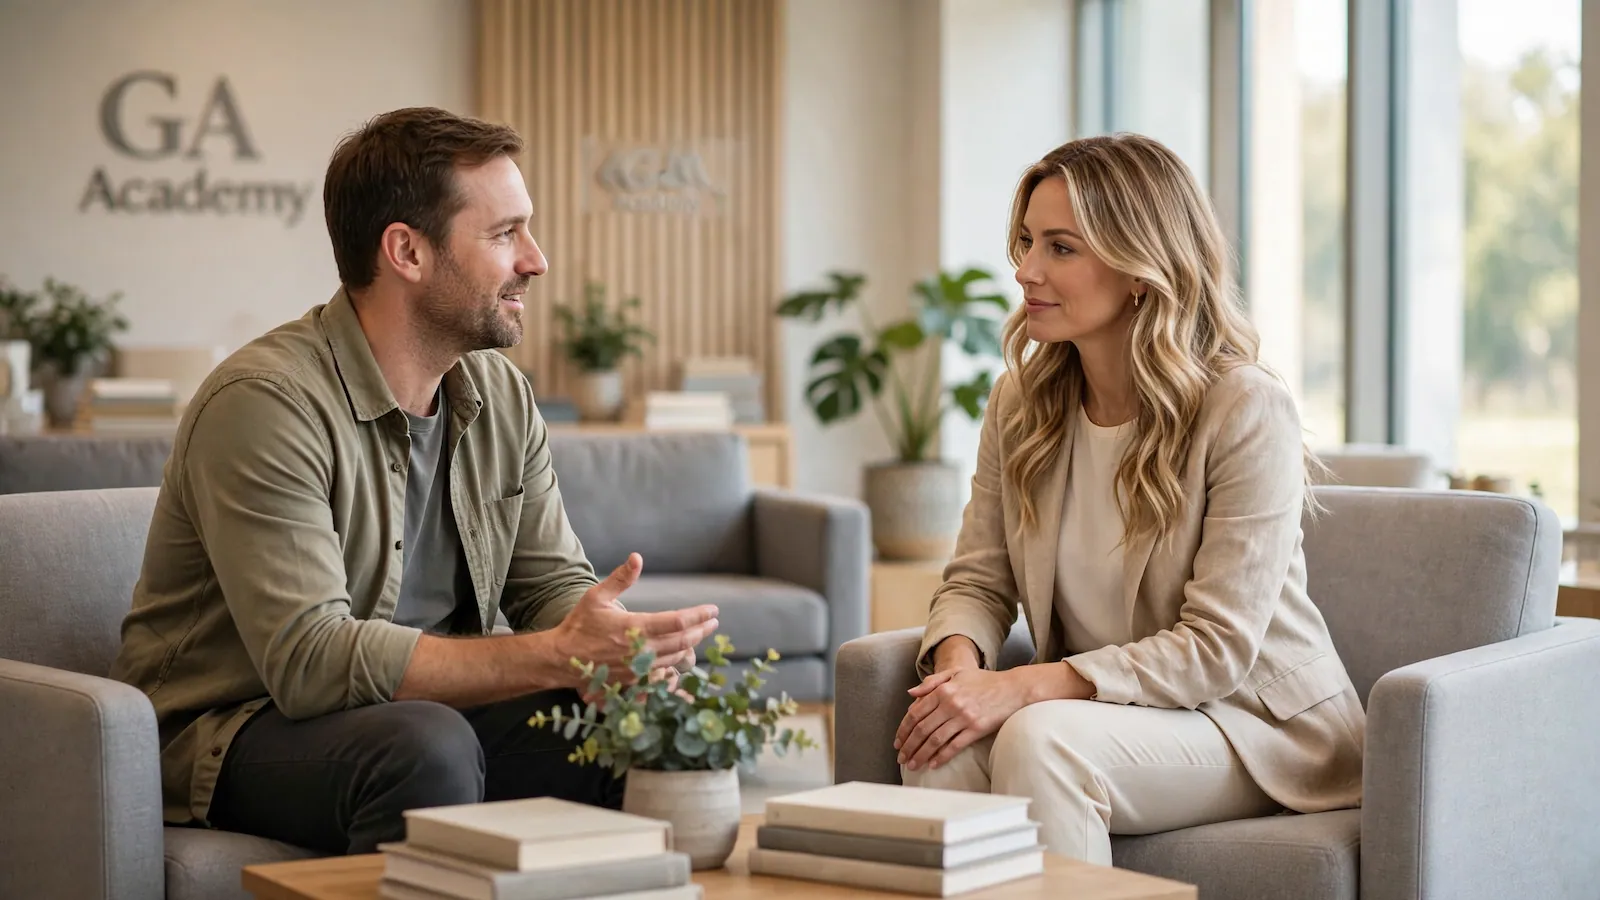
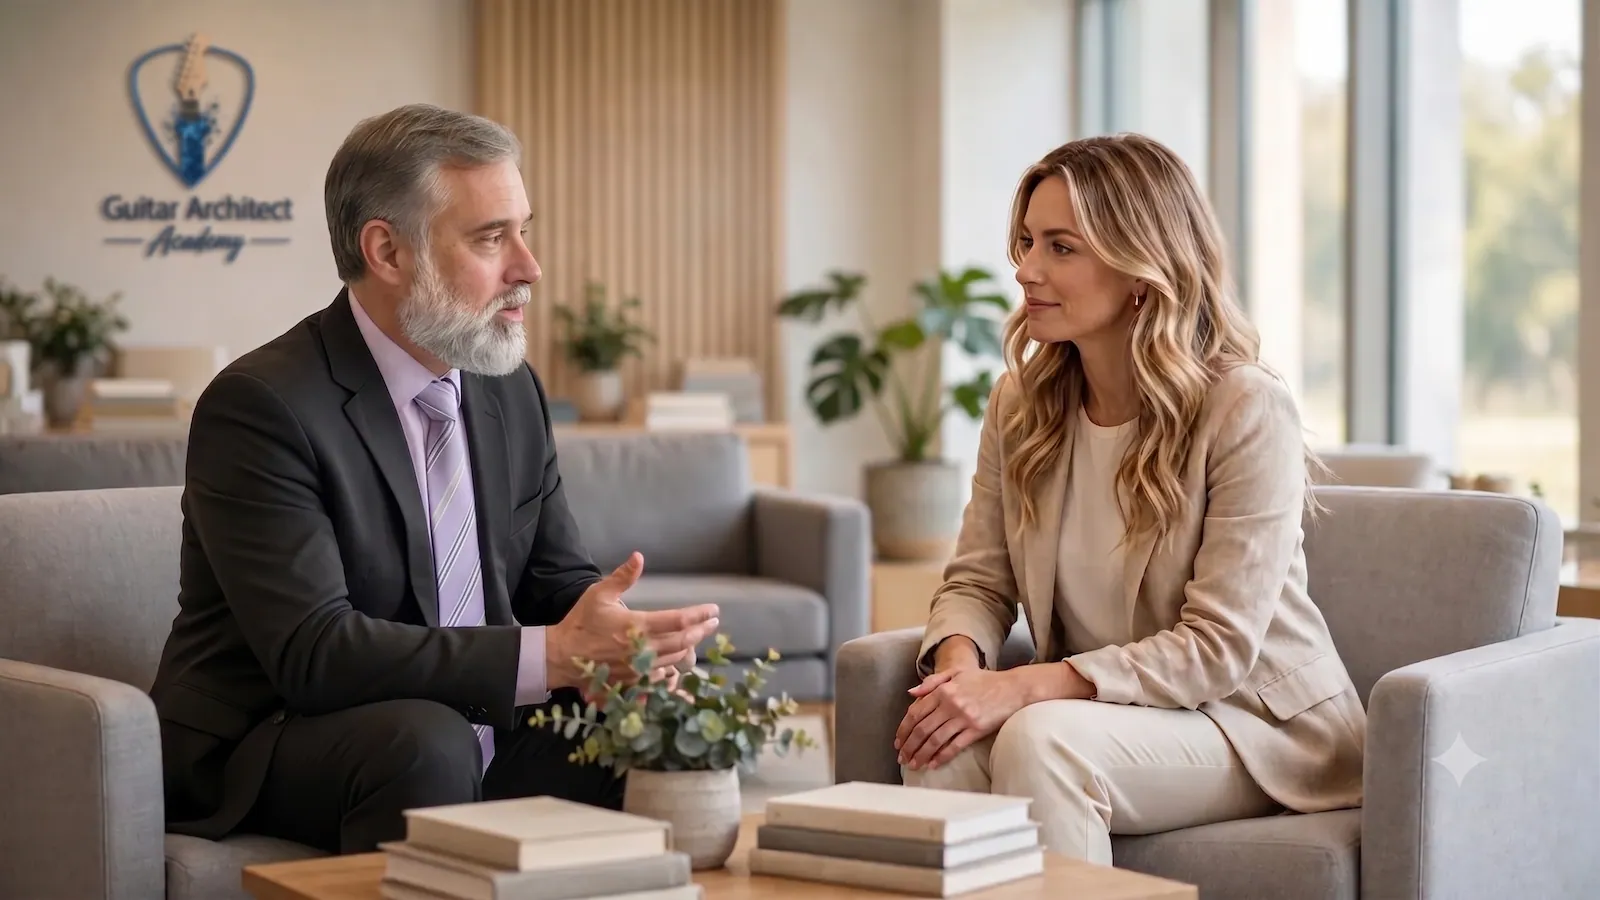
feat: refine architect profile presentation

diff --git a/components/InstructorProfilePage.tsx b/components/InstructorProfilePage.tsx
@@ -109,7 +109,8 @@ const InstructorProfilePage: React.FC<InstructorProfilePageProps> = ({ instructo
         previousProfile: 'Perfil anterior',
         nextProfile: 'Próximo perfil',
         beyondGATitle: 'Além do GA',
-        beyondGAIntro: 'Um pouco da pessoa por trás do Mestre Arquiteto.',
+        beyondGAIntro: 'Biografia e curiosidades pessoais',
+        quoteTitle: 'Em suas palavras',
         fullName: 'Nome completo',
         age: 'Idade',
         birthplace: 'Local de nascimento',
@@ -145,7 +146,8 @@ const InstructorProfilePage: React.FC<InstructorProfilePageProps> = ({ instructo
         previousProfile: 'Previous profile',
         nextProfile: 'Next profile',
         beyondGATitle: 'Beyond GA',
-        beyondGAIntro: 'A glimpse of the person behind the Master Architect.',
+        beyondGAIntro: 'Biography and personal insights',
+        quoteTitle: 'In their own words',
         fullName: 'Full name',
         age: 'Age',
         birthplace: 'Place of birth',
@@ -171,7 +173,6 @@ const InstructorProfilePage: React.FC<InstructorProfilePageProps> = ({ instructo
 
   if (isExperienceDirector) {
     t.personalityTitle = lang === 'pt' ? 'Personalidade, experiência e comunicação' : 'Personality, experience and communication';
-    t.beyondGAIntro = lang === 'pt' ? 'Um pouco mais sobre Diana Helena Moreau Fontenelle.' : 'A little more about Diana Helena Moreau Fontenelle.';
     t.noticeTitle = lang === 'pt' ? 'Diretora de Experiência e Jornada' : 'Director of Experience & Journey';
     t.noticeBody = lang === 'pt'
       ? 'Diana Helena Moreau Fontenelle acolhe, orienta e conecta as pessoas aos diferentes caminhos e possibilidades do Guitar Architect.'
@@ -211,6 +212,7 @@ const InstructorProfilePage: React.FC<InstructorProfilePageProps> = ({ instructo
   const previousInstructor = instructors[(instructorIndex - 1 + instructors.length) % instructors.length];
   const nextInstructor = instructors[(instructorIndex + 1) % instructors.length];
   const beyondGA = getInstructorBeyondGAById(instructor.id);
+  const profileName = beyondGA?.fullName[lang] ?? instructor.name;
   const beyondGAItems = beyondGA
     ? [
         { key: 'fullName', label: t.fullName, value: beyondGA.fullName[lang], wide: false },
@@ -295,7 +297,7 @@ const InstructorProfilePage: React.FC<InstructorProfilePageProps> = ({ instructo
 
           <div className={`overflow-hidden rounded-[40px] border ${cardClass}`}>
             <div className="p-8 pb-6 md:p-12 md:pb-8">
-              <h1 className="text-3xl md:text-5xl font-black italic uppercase tracking-tighter">{instructor.name}</h1>
+              <h1 className="break-words text-3xl md:text-5xl font-black italic uppercase tracking-tighter">{profileName}</h1>
               <p className="mt-1 text-sm md:text-base font-bold uppercase tracking-widest text-blue-500">{instructor.title[lang]}</p>
 
               <div className="mt-4 flex flex-wrap gap-2">
@@ -324,12 +326,12 @@ const InstructorProfilePage: React.FC<InstructorProfilePageProps> = ({ instructo
                   playsInline
                   preload="metadata"
                 >
-                  <img src={heroImage} alt={instructor.name} className="h-full w-full object-cover object-center" />
+                  <img src={heroImage} alt={profileName} className="h-full w-full object-cover object-center" />
                 </video>
               ) : (
                 <img
                   src={heroImage}
-                  alt={instructor.name}
+                  alt={profileName}
                   className="absolute inset-0 h-full w-full object-cover object-center"
                   style={{ transform: `translate(${x}px, ${y}px) scale(${scale})` }}
                 />
@@ -428,29 +430,14 @@ const InstructorProfilePage: React.FC<InstructorProfilePageProps> = ({ instructo
                 </section>
               )}
 
-              {beyondGAItems.length > 0 && (
-                <section className="mt-10" aria-labelledby="beyond-ga-title">
-                  <h2 id="beyond-ga-title" className="text-sm font-black uppercase tracking-tight">{t.beyondGATitle}</h2>
-                  <p className={`mt-1 text-xs ${isLight ? 'text-zinc-500' : 'text-zinc-400'}`}>{t.beyondGAIntro}</p>
-                  <dl className={`mt-5 grid gap-x-8 sm:grid-cols-2 ${isLight ? 'divide-zinc-200' : 'divide-zinc-800'}`}>
-                    {beyondGAItems.map(item => (
-                      <div
-                        key={item.key}
-                        className={`min-w-0 border-b py-4 ${item.wide ? 'sm:col-span-2' : ''} ${isLight ? 'border-zinc-200' : 'border-zinc-800'}`}
-                      >
-                        <dt className="text-[10px] font-black uppercase tracking-widest text-blue-500">{item.label}</dt>
-                        <dd className={`mt-1 break-words text-xs md:text-sm leading-relaxed ${isLight ? 'text-zinc-700' : 'text-zinc-300'}`}>
-                          {item.value}
-                        </dd>
-                      </div>
-                    ))}
-                  </dl>
-                </section>
-              )}
-
-              <blockquote className={`mt-8 rounded-2xl border p-5 text-center text-sm md:text-base font-black italic ${panelClass}`}>
-                “{instructor.quote[lang]}”
-              </blockquote>
+              <section className="mt-8" aria-labelledby="instructor-quote-title">
+                <h2 id="instructor-quote-title" className="mb-3 text-center text-[10px] font-black uppercase tracking-widest text-blue-500">
+                  {t.quoteTitle}
+                </h2>
+                <blockquote className={`rounded-2xl border p-5 text-center text-sm md:text-base font-black italic ${panelClass}`}>
+                  “{instructor.quote[lang]}”
+                </blockquote>
+              </section>
 
               <div className="mt-8">
                 <h2 className="text-sm font-black uppercase tracking-tight mb-3">{t.modulesTitle}</h2>
@@ -474,6 +461,26 @@ const InstructorProfilePage: React.FC<InstructorProfilePageProps> = ({ instructo
                   title={t.actionTitle}
                 />
               ) : null}
+
+              {beyondGAItems.length > 0 && (
+                <section className="mt-10" aria-labelledby="beyond-ga-title">
+                  <h2 id="beyond-ga-title" className="text-sm font-black uppercase tracking-tight">{t.beyondGATitle}</h2>
+                  <p className={`mt-1 text-xs ${isLight ? 'text-zinc-500' : 'text-zinc-400'}`}>{t.beyondGAIntro}</p>
+                  <dl className={`mt-5 grid gap-x-8 sm:grid-cols-2 ${isLight ? 'divide-zinc-200' : 'divide-zinc-800'}`}>
+                    {beyondGAItems.map(item => (
+                      <div
+                        key={item.key}
+                        className={`min-w-0 border-b py-4 ${item.wide ? 'sm:col-span-2' : ''} ${isLight ? 'border-zinc-200' : 'border-zinc-800'}`}
+                      >
+                        <dt className="text-[10px] font-black uppercase tracking-widest text-blue-500">{item.label}</dt>
+                        <dd className={`mt-1 break-words text-xs md:text-sm leading-relaxed ${isLight ? 'text-zinc-700' : 'text-zinc-300'}`}>
+                          {item.value}
+                        </dd>
+                      </div>
+                    ))}
+                  </dl>
+                </section>
+              )}
 
               <div className={`mt-8 rounded-2xl border p-5 text-center ${noticeClass}`}>
                 <p className="text-xs font-black uppercase tracking-widest">{t.noticeTitle}</p>

diff --git a/data/instructors.ts b/data/instructors.ts
@@ -80,6 +80,7 @@ export interface InstructorActionGallery {
 export interface InstructorProfile {
   id: string;
   name: string;
+  cardName: string;
   title: LocalizedText;
   aboutLabel: LocalizedText;
   shortDescription: LocalizedText;
@@ -230,8 +231,9 @@ export const instructors: InstructorProfile[] = [
   {
     id: 'alice',
     name: 'Alice',
+    cardName: 'Alice Sampaio',
     title: { pt: 'Primeiros Passos', en: 'First Steps' },
-    aboutLabel: { pt: 'Sobre a arquiteta', en: 'About the architect' },
+    aboutLabel: { pt: 'Sobre a Mestre Arquiteta', en: 'About the Master Architect' },
     shortDescription: {
       pt: 'Acolhe os primeiros passos na guitarra, no canto e na descoberta musical, reduzindo a intimidação sem infantilizar.',
       en: 'Welcomes first steps in guitar, singing and musical discovery, reducing intimidation without talking down to anyone.',
@@ -270,8 +272,9 @@ export const instructors: InstructorProfile[] = [
   {
     id: 'arthur',
     name: 'Arthur',
+    cardName: 'Arthur Tavares',
     title: { pt: 'Fundamentos e Evolução', en: 'Foundations and Growth' },
-    aboutLabel: { pt: 'Sobre o arquiteto', en: 'About the architect' },
+    aboutLabel: { pt: 'Sobre o Mestre Arquiteto', en: 'About the Master Architect' },
     shortDescription: {
       pt: 'Acompanha o estudante entre compreender, tentar, errar, persistir e conquistar novos desafios musicais.',
       en: 'Supports students as they understand, try, make mistakes, persist and overcome new musical challenges.',
@@ -310,8 +313,9 @@ export const instructors: InstructorProfile[] = [
   {
     id: 'bill',
     name: 'Bill',
+    cardName: 'Bill dos Santos',
     title: { pt: 'Blues e Feeling', en: 'Blues and Feeling' },
-    aboutLabel: { pt: 'Sobre o arquiteto', en: 'About the architect' },
+    aboutLabel: { pt: 'Sobre o Mestre Arquiteto', en: 'About the Master Architect' },
     shortDescription: {
       pt: 'Ensina blues e fraseado com foco em expressão — tocar com intenção, não apenas repetir escalas.',
       en: 'Teaches blues and phrasing with a focus on expression — playing with intention, not just repeating scales.',
@@ -350,8 +354,9 @@ export const instructors: InstructorProfile[] = [
   {
     id: 'clara',
     name: 'Clara',
+    cardName: 'Clara Vasconcelos',
     title: { pt: 'Jornada e Organização', en: 'Journey and Organization' },
-    aboutLabel: { pt: 'Sobre a arquiteta', en: 'About the architect' },
+    aboutLabel: { pt: 'Sobre a Mestre Arquiteta', en: 'About the Master Architect' },
     shortDescription: {
       pt: 'Organiza conhecimentos dispersos, identifica lacunas e orienta cada pessoa por um caminho claro de estudo.',
       en: 'Organizes scattered knowledge, identifies gaps and guides each person through a clear path of study.',
@@ -390,8 +395,9 @@ export const instructors: InstructorProfile[] = [
   {
     id: 'dean',
     name: 'Dean',
+    cardName: 'Dean Fontoura',
     title: { pt: 'Rock e Riffs', en: 'Rock and Riffs' },
-    aboutLabel: { pt: 'Sobre o arquiteto', en: 'About the architect' },
+    aboutLabel: { pt: 'Sobre o Mestre Arquiteto', en: 'About the Master Architect' },
     shortDescription: {
       pt: 'Especialista em riffs e repertório de rock, focado em construir a linguagem do estilo na prática.',
       en: "A riffs and rock repertoire specialist, focused on building the style's language through practice.",
@@ -429,9 +435,10 @@ export const instructors: InstructorProfile[] = [
   },
   {
     id: 'diana',
-    name: 'Diana Helena Moreau Fontenelle',
+    name: 'Diana',
+    cardName: 'Diana Fontenelle',
     title: { pt: 'Diretora de Experiência e Jornada', en: 'Director of Experience & Journey' },
-    aboutLabel: { pt: 'Sobre Diana', en: 'About Diana' },
+    aboutLabel: { pt: 'Sobre a Diretora de Experiência e Jornada', en: 'About the Director of Experience & Journey' },
     shortDescription: {
       pt: 'Cuida da forma como as pessoas são recebidas, orientadas e conectadas aos diferentes caminhos e possibilidades do Guitar Architect.',
       en: 'Shapes how people are welcomed, guided and connected with the different paths and possibilities across Guitar Architect.',
@@ -474,8 +481,9 @@ export const instructors: InstructorProfile[] = [
   {
     id: 'erika',
     name: 'Erika',
+    cardName: 'Erika Albuquerque',
     title: { pt: 'Voz e Performance', en: 'Voice and Performance' },
-    aboutLabel: { pt: 'Sobre a arquiteta', en: 'About the architect' },
+    aboutLabel: { pt: 'Sobre a Mestre Arquiteta', en: 'About the Master Architect' },
     shortDescription: {
       pt: 'Desenvolve presença, interpretação e confiança para transformar intenção musical em comunicação.',
       en: 'Develops presence, interpretation and confidence to turn musical intention into communication.',
@@ -514,8 +522,9 @@ export const instructors: InstructorProfile[] = [
   {
     id: 'fred',
     name: 'Fred',
+    cardName: 'Fred Brandão',
     title: { pt: 'Arquitetura do Braço', en: 'Fretboard Architecture' },
-    aboutLabel: { pt: 'Sobre o arquiteto', en: 'About the architect' },
+    aboutLabel: { pt: 'Sobre o Mestre Arquiteto', en: 'About the Master Architect' },
     shortDescription: {
       pt: 'Visualiza como acordes, escalas e funções se conectam no braço para revelar a estrutura da música.',
       en: 'Visualizes how chords, scales and functions connect across the fretboard to reveal musical structure.',
@@ -554,8 +563,9 @@ export const instructors: InstructorProfile[] = [
   {
     id: 'hiroshi',
     name: 'Hiroshi',
+    cardName: 'Hiroshi Sato',
     title: { pt: 'Precisão e Técnica', en: 'Precision and Technique' },
-    aboutLabel: { pt: 'Sobre o arquiteto', en: 'About the architect' },
+    aboutLabel: { pt: 'Sobre o Mestre Arquiteto', en: 'About the Master Architect' },
     shortDescription: {
       pt: 'Aprofunda técnica, intervalos e análise com precisão, ajustando o nível da conversa sem evitar questões exigentes.',
       en: 'Deepens technique, intervals and analysis with precision, adjusting the level of the conversation without avoiding demanding questions.',
@@ -594,8 +604,9 @@ export const instructors: InstructorProfile[] = [
   {
     id: 'jax',
     name: 'Jax',
+    cardName: 'Jax Xavier',
     title: { pt: 'Concisão e Ruptura', en: 'Concision and Disruption' },
-    aboutLabel: { pt: 'Sobre o arquiteto', en: 'About the architect' },
+    aboutLabel: { pt: 'Sobre o Mestre Arquiteto', en: 'About the Master Architect' },
     shortDescription: {
       pt: 'Questiona excessos e convenções para encontrar a forma mais direta e necessária de expressão.',
       en: 'Questions excess and convention to find the most direct and necessary form of expression.',
@@ -634,8 +645,9 @@ export const instructors: InstructorProfile[] = [
   {
     id: 'juan',
     name: 'Juan',
+    cardName: 'Juan Oliveira',
     title: { pt: 'Baixo, Groove e Movimento', en: 'Bass, Groove and Motion' },
-    aboutLabel: { pt: 'Sobre o arquiteto', en: 'About the architect' },
+    aboutLabel: { pt: 'Sobre o Mestre Arquiteto', en: 'About the Master Architect' },
     shortDescription: {
       pt: 'Explora o baixo pelo groove e pelo movimento melódico, propondo caminhos que vão além de apenas sustentar a base.',
       en: 'Explores bass through groove and melodic movement, offering paths that go beyond simply holding down the foundation.',
@@ -674,8 +686,9 @@ export const instructors: InstructorProfile[] = [
   {
     id: 'kael',
     name: 'Kael',
+    cardName: 'Kael Valadares',
     title: { pt: 'Metal e Técnica Pesada', en: 'Metal and Heavy Technique' },
-    aboutLabel: { pt: 'Sobre o arquiteto', en: 'About the architect' },
+    aboutLabel: { pt: 'Sobre o Mestre Arquiteto', en: 'About the Master Architect' },
     shortDescription: {
       pt: 'Especialista em metal, palhetada e riffs pesados, com foco em intensidade e precisão.',
       en: 'A metal specialist in picking and heavy riffs, focused on intensity and precision.',
@@ -714,8 +727,9 @@ export const instructors: InstructorProfile[] = [
   {
     id: 'leo',
     name: 'Leo',
+    cardName: 'Leo Valença',
     title: { pt: 'Prática e Evolução', en: 'Practice and Progress' },
-    aboutLabel: { pt: 'Sobre o arquiteto', en: 'About the architect' },
+    aboutLabel: { pt: 'Sobre o Mestre Arquiteto', en: 'About the Master Architect' },
     shortDescription: {
       pt: 'Transforma escalas, ritmos e conceitos em habilidade por meio de sessões práticas, progressivas e motivadoras.',
       en: 'Turns scales, rhythms and concepts into skill through practical, progressive and motivating sessions.',
@@ -754,8 +768,9 @@ export const instructors: InstructorProfile[] = [
   {
     id: 'mel',
     name: 'Mel',
+    cardName: 'Mel Sá',
     title: { pt: 'Melodia e Fraseado', en: 'Melody and Phrasing' },
-    aboutLabel: { pt: 'Sobre a arquiteta', en: 'About the architect' },
+    aboutLabel: { pt: 'Sobre a Mestre Arquiteta', en: 'About the Master Architect' },
     shortDescription: {
       pt: 'Transforma notas em ideias musicais, desenvolvendo frases com respiração, contraste, intenção e direção.',
       en: 'Turns notes into musical ideas, developing phrases with breath, contrast, intention and direction.',
@@ -794,8 +809,9 @@ export const instructors: InstructorProfile[] = [
   {
     id: 'nina',
     name: 'Nina',
+    cardName: 'Nina Barreto',
     title: { pt: 'Voz, Ouvido e Musicalidade', en: 'Voice, Ear and Musicality' },
-    aboutLabel: { pt: 'Sobre a arquiteta', en: 'About the architect' },
+    aboutLabel: { pt: 'Sobre a Mestre Arquiteta', en: 'About the Master Architect' },
     shortDescription: {
       pt: 'Conecta voz, ouvido e instrumento para desenvolver afinação, percepção, fraseado e imaginação musical.',
       en: 'Connects voice, ear and instrument to develop pitch, perception, phrasing and musical imagination.',
@@ -834,8 +850,9 @@ export const instructors: InstructorProfile[] = [
   {
     id: 'rick',
     name: 'Rick',
+    cardName: 'Rick Ferreira',
     title: { pt: 'Baixo e Fundamento', en: 'Bass and Foundation' },
-    aboutLabel: { pt: 'Sobre o arquiteto', en: 'About the architect' },
+    aboutLabel: { pt: 'Sobre o Mestre Arquiteto', en: 'About the Master Architect' },
     shortDescription: {
       pt: 'Constrói linhas de baixo que conectam harmonia, bateria e groove com clareza, espaço e função.',
       en: 'Builds bass lines that connect harmony, drums and groove with clarity, space and purpose.',
@@ -874,8 +891,9 @@ export const instructors: InstructorProfile[] = [
   {
     id: 'roxie',
     name: 'Roxie',
+    cardName: 'Roxie Lacerda',
     title: { pt: 'Rock Alternativo', en: 'Alternative Rock' },
-    aboutLabel: { pt: 'Sobre a arquiteta', en: 'About the architect' },
+    aboutLabel: { pt: 'Sobre a Mestre Arquiteta', en: 'About the Master Architect' },
     shortDescription: {
       pt: 'Inspira identidade e expressão autoral no rock alternativo, encorajando cada músico a encontrar uma voz própria.',
       en: 'Inspires identity and original expression in alternative rock, encouraging every musician to find a voice of their own.',
@@ -914,8 +932,9 @@ export const instructors: InstructorProfile[] = [
   {
     id: 'sofia',
     name: 'Sofia',
+    cardName: 'Sofia Fagundes',
     title: { pt: 'Acordes e Expressividade', en: 'Chords and Expressiveness' },
-    aboutLabel: { pt: 'Sobre a arquiteta', en: 'About the architect' },
+    aboutLabel: { pt: 'Sobre a Mestre Arquiteta', en: 'About the Master Architect' },
     shortDescription: {
       pt: 'Trabalha harmonia aplicada, acompanhamento e expressividade com foco em repertório.',
       en: 'Works on applied harmony, accompaniment and expressiveness with a focus on repertoire.',
@@ -957,8 +976,9 @@ export const instructors: InstructorProfile[] = [
   {
     id: 'tom',
     name: 'Tom',
+    cardName: 'Tom Vianna',
     title: { pt: 'Luthieria e Setup', en: 'Luthiery and Setup' },
-    aboutLabel: { pt: 'Sobre o arquiteto', en: 'About the architect' },
+    aboutLabel: { pt: 'Sobre o Mestre Arquiteto', en: 'About the Master Architect' },
     shortDescription: {
       pt: 'Especialista em regulagem, conservação, manutenção e ajustes práticos para manter o instrumento confortável, estável e pronto para tocar.',
       en: 'A specialist in setup, upkeep, maintenance and practical adjustments to keep the instrument comfortable, stable and ready to play.',
@@ -1010,8 +1030,9 @@ export const instructors: InstructorProfile[] = [
   {
     id: 'victor',
     name: 'Victor',
+    cardName: 'Victor Azevedo',
     title: { pt: 'Jazz e Harmonia', en: 'Jazz and Harmony' },
-    aboutLabel: { pt: 'Sobre o arquiteto', en: 'About the architect' },
+    aboutLabel: { pt: 'Sobre o Mestre Arquiteto', en: 'About the Master Architect' },
     shortDescription: {
       pt: 'Explora acordes sofisticados, condução harmônica e a linguagem do jazz.',
       en: 'Explores sophisticated chords, voice leading and the language of jazz.',

diff --git a/components/InstructorCard.tsx b/components/InstructorCard.tsx
@@ -51,14 +51,14 @@ const InstructorCard: React.FC<InstructorCardProps> = ({ instructor, isLight, la
     <button
       type="button"
       onClick={() => navigateToInstructor(`/instructors/${instructor.id}`, instructor, lang)}
-      aria-label={lang === 'pt' ? `Ver perfil de ${instructor.name}` : `View ${instructor.name}'s profile`}
+      aria-label={lang === 'pt' ? `Ver perfil de ${instructor.cardName}` : `View ${instructor.cardName}'s profile`}
       title={instructor.title[lang]}
       className={`flex flex-col overflow-hidden rounded-3xl border text-left transition-transform hover:-translate-y-1 focus:outline-none focus-visible:ring-2 focus-visible:ring-blue-400 ${panelClass}`}
     >
       <div className="relative aspect-[4/5] w-full overflow-hidden bg-zinc-100">
         <img
           src={instructor.cardImage}
-          alt={instructor.name}
+          alt={instructor.cardName}
           className="absolute inset-0 h-full w-full object-cover object-center"
           style={{ transform: `translate(${x}px, ${y}px) scale(${scale})` }}
         />
@@ -66,7 +66,7 @@ const InstructorCard: React.FC<InstructorCardProps> = ({ instructor, isLight, la
 
       <div className="flex flex-1 flex-col p-4">
         <h3 className={`text-sm font-black uppercase tracking-tight ${isLight ? 'text-zinc-800' : 'text-white'}`}>
-          {instructor.name}
+          {instructor.cardName}
         </h3>
         <p className={`text-[11px] font-bold uppercase tracking-widest text-blue-500`}>
           {instructor.title[lang]}